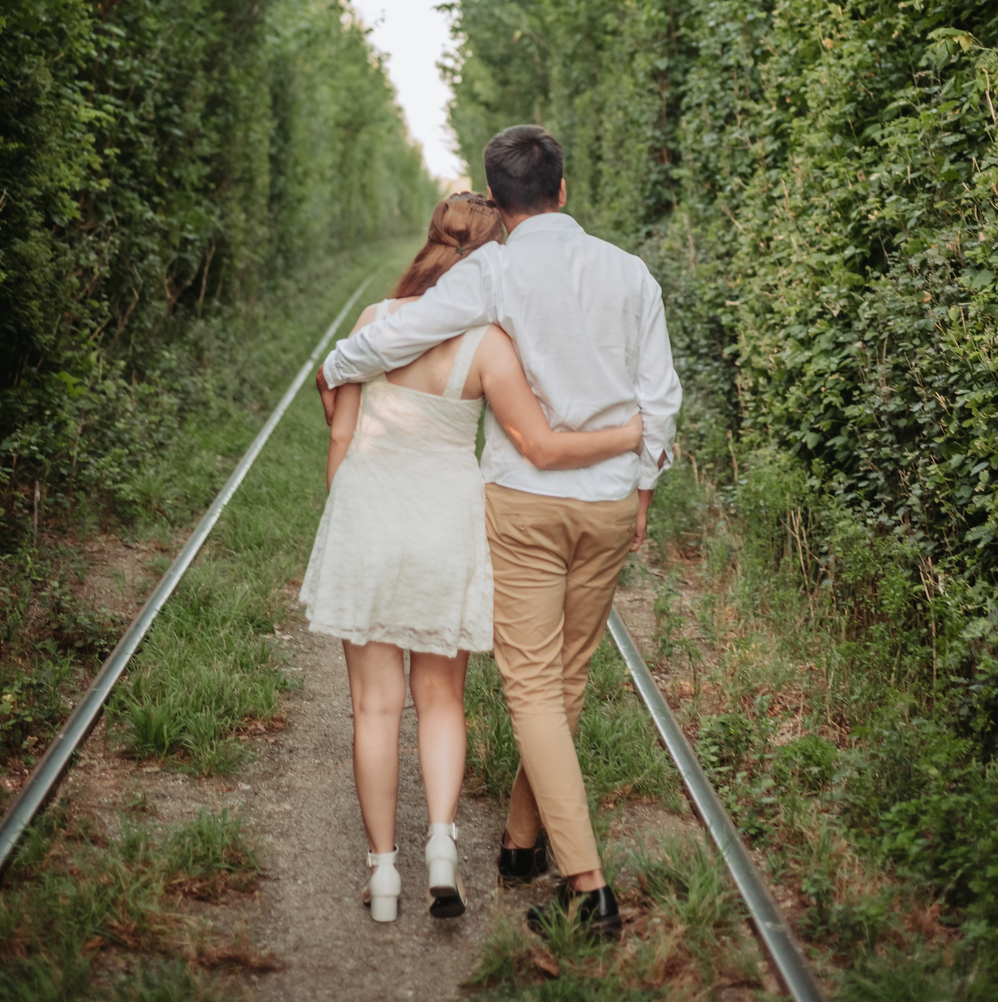
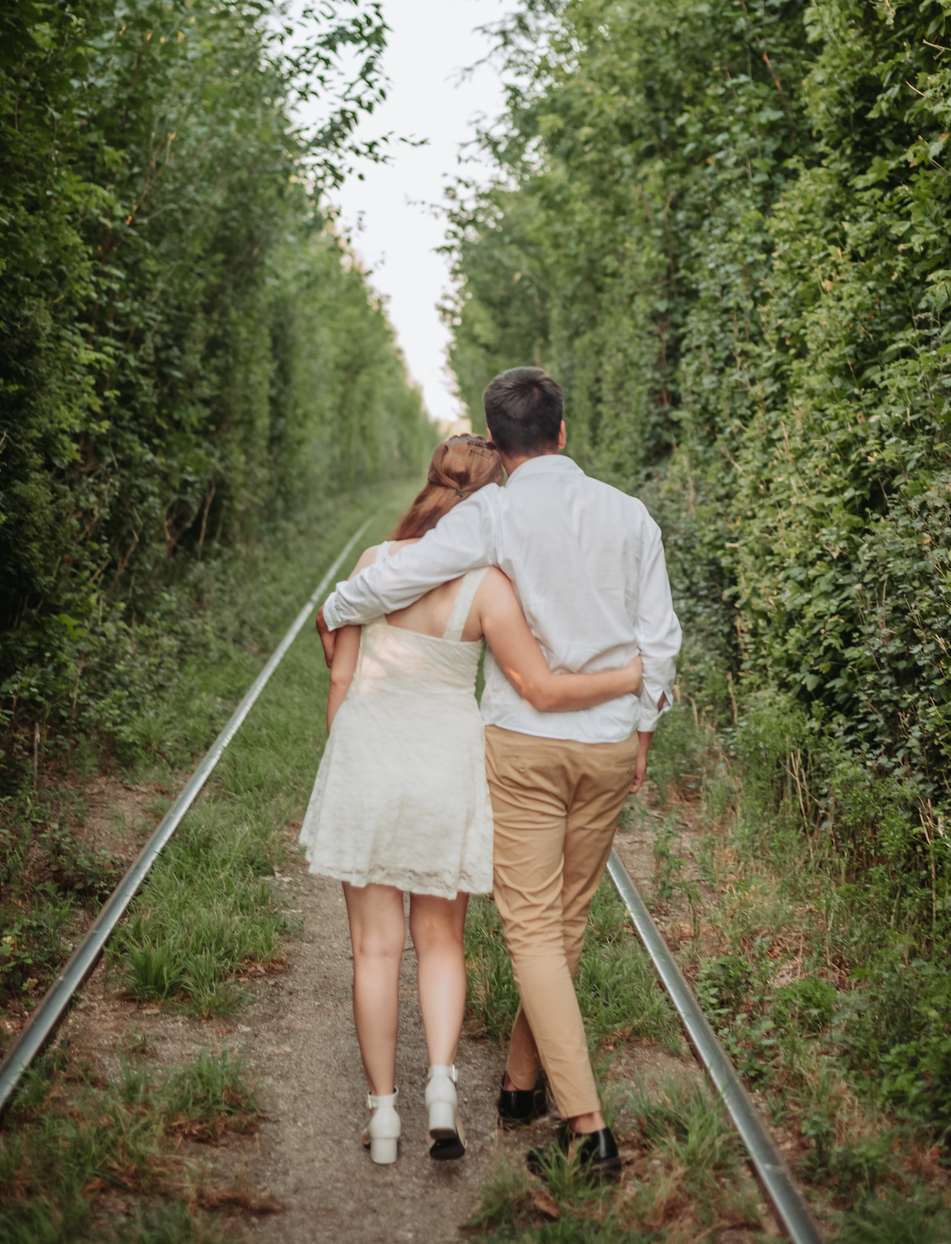
fixed-images-gifts

diff --git a/css/style.css b/css/style.css
@@ -521,7 +521,7 @@ nav p {
 	height: 100vh;
 	background-size: cover;
 	background-position: center top;
-	background-image: url('../assets/Ana\ &\ Eze\ Pre-Boda-30.jpg');
+	background-image: url('../assets/Ana\ &\ Eze\ Pre-Boda-30-desktop.jpg');
 	background-attachment: fixed;
 }
 
@@ -876,7 +876,7 @@ nav p {
 
 	.container-gifts {
 		height: 60vh;
-		background-image: url('../assets/images-mobile/Ana\ &\ Eze\ Pre-Boda-30-mobile.jpg');
+		background-image: url('../assets//Ana\ &\ Eze\ Pre-Boda-30.jpg');
 	}
 
 	.cover-gifts {
